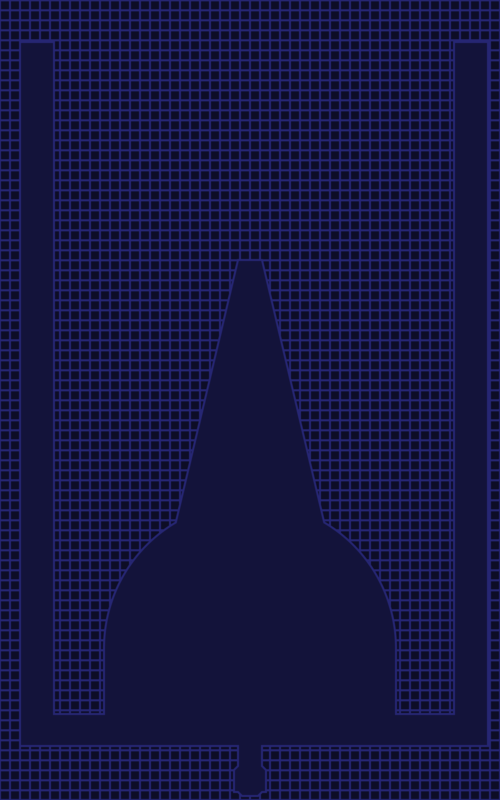
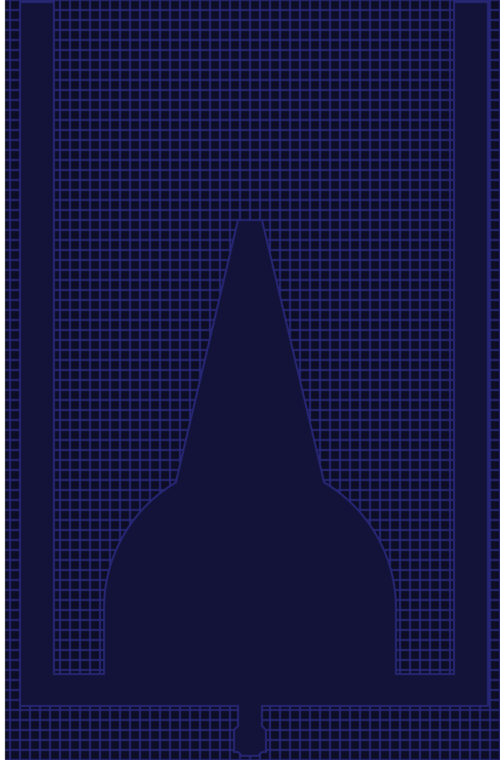
Oh look the Observatory is shorter now

Changed region(s): [[0.0, 0.0, 1.0, 1.0], [0.96, 0.5145, 1.0, 0.7263], [0.96, 0.2724, 1.0, 0.4842]]

diff --git a/index.html b/index.html
@@ -793,7 +793,7 @@
         <div class="helpContainer">
             <p style="text-align: center;">
                 <span class="title">DojoCAD</span><br/>
-                v1.4.1: 2020-03-20<br/>
+                v1.4.2: 2020-04-27<br/>
                 <a href="https://github.com/buff0000n/dojoarch">Source</a>&nbsp;
                 <a href="https://github.com/buff0000n/dojoarch/issues/2">Feedback</a>&nbsp;
                 <a href="https://github.com/buff0000n/dojocad/issues/new">Bugs</a><br/>
@@ -1315,7 +1315,8 @@
             <h3 id="UpdateNotes1.4">v1.4: 2020-02-13</h3>
             <ul>
                 <li>Implemented undo/redo.</li>
-                <li>Updated the boundary on the Obstacle Course Architect room (thanks <strong>yodaxep</strong></li>
+                <li>Updated the boundary on the Obstacle Course Architect room (thanks <strong>yodaxep</strong>)</li>
+                <li>Updated the Observatory with new slightly smaller bounds.</li>
             </ul>
 
             <h1 id="ToDo">To Do</h1>

diff --git a/js/room-metadata.js b/js/room-metadata.js
@@ -370,7 +370,7 @@ var roomMetadata =
 
 {"id": "ob", "image": "observatory", "name": "Observatory", "category": "Misc", "prereq": null, "capacity": -2, "energy": -5, "maxnum": null, "floor": -32, "ceil": 52,
 	"bounds": [
-		{"x1": -50, "y1": -80, "x2": 50, "y2": 80, "floor": -32, "ceil": 52}],
+		{"x1": -50, "y1": -72, "x2": 50, "y2": 80, "floor": -32, "ceil": 52}],
 	"doors": [
 		{"x": 0, "y": 80, "floor": 0, "outx": 0, "outy": 1}],
 	"resources": [
